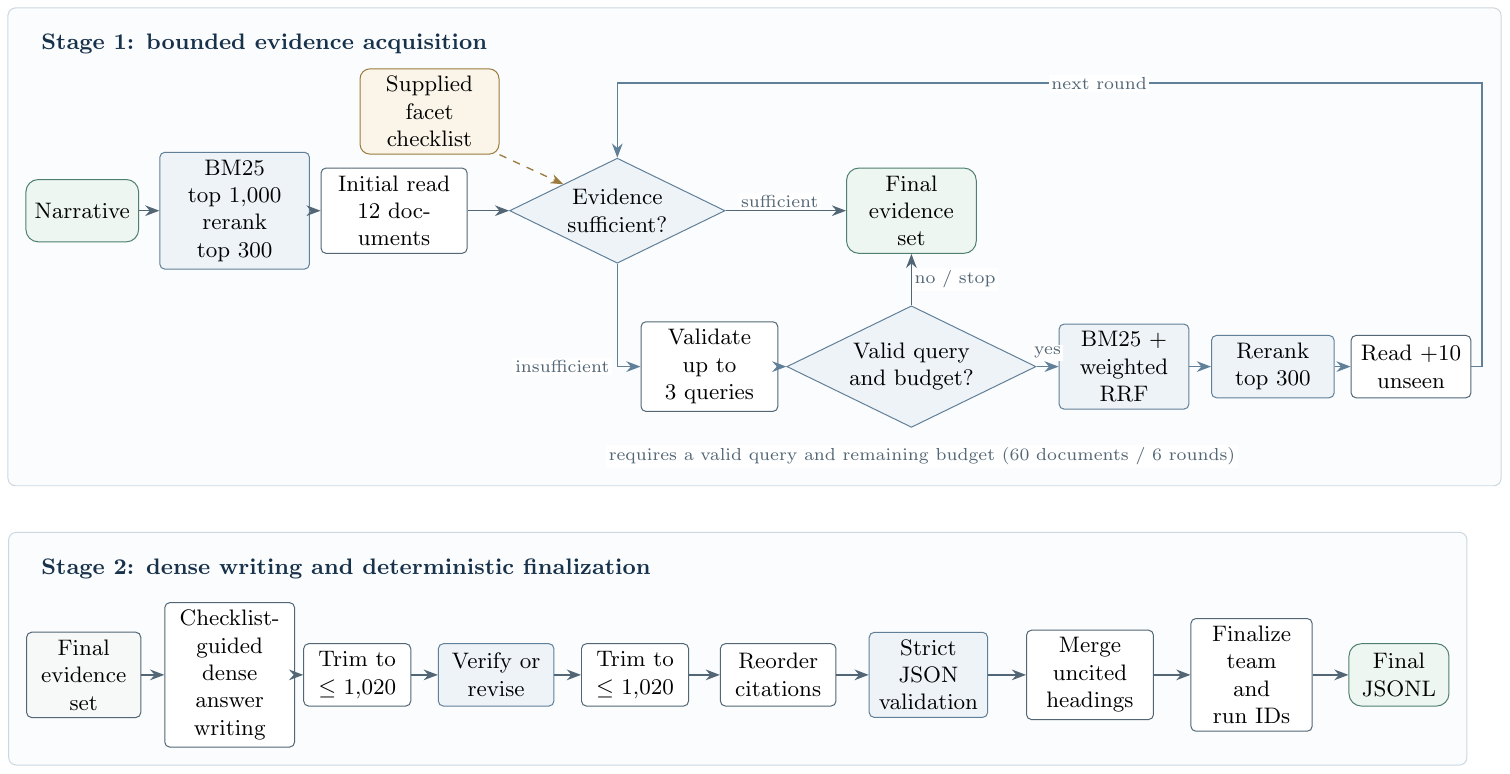
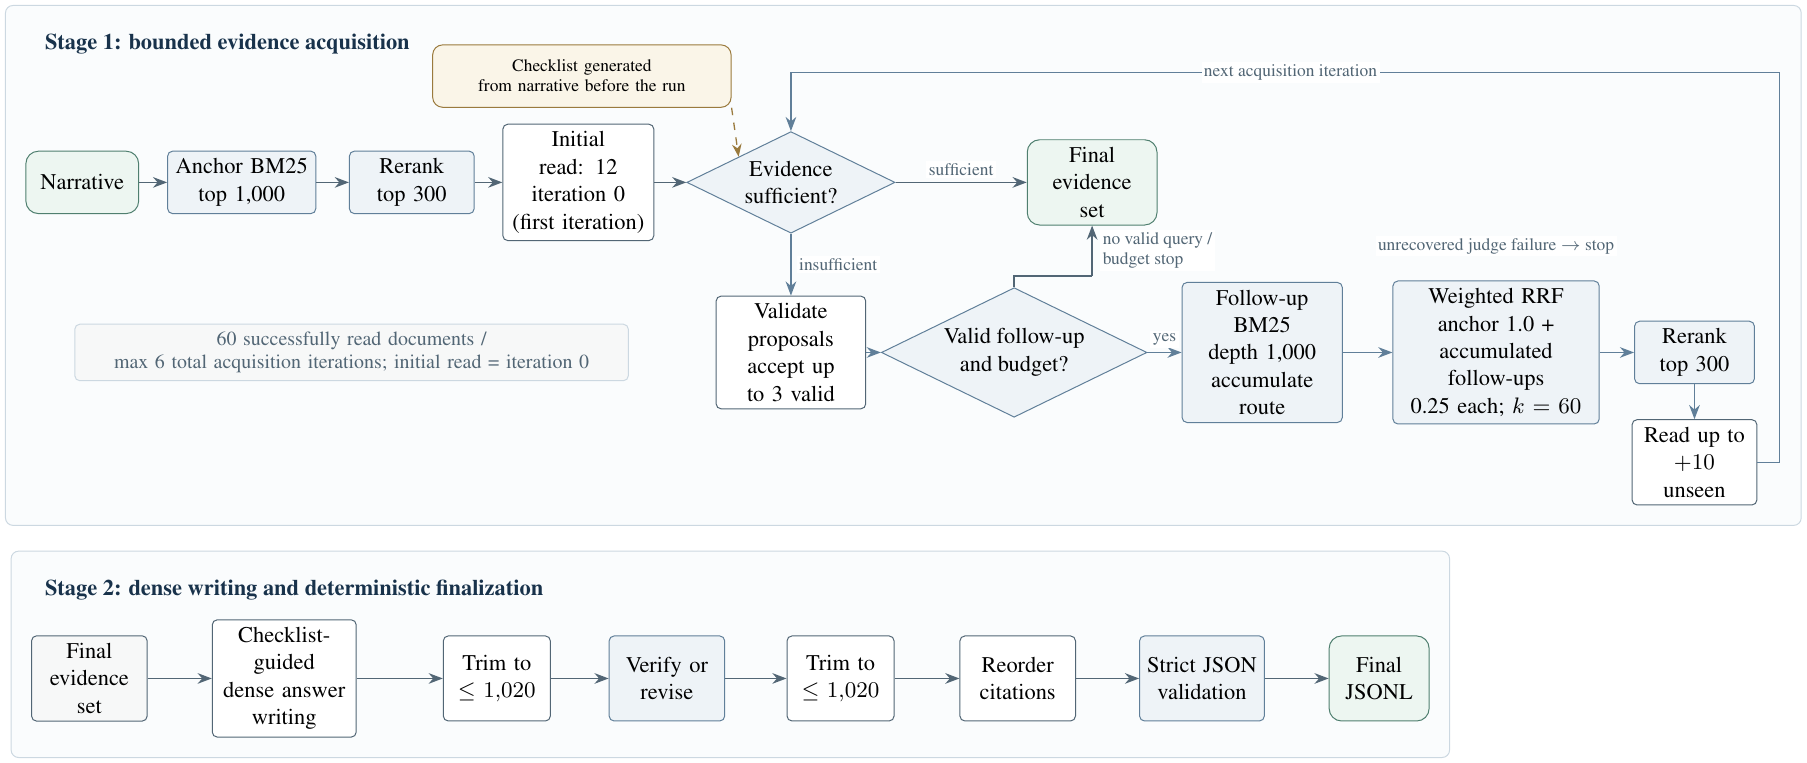
Polish README and refresh pipeline diagrams

diff --git a/README.md b/README.md
@@ -2,37 +2,38 @@
 
 [![CI](https://github.com/AnnieHsieh-12/TREC_RAG_2026/actions/workflows/ci.yml/badge.svg)](https://github.com/AnnieHsieh-12/TREC_RAG_2026/actions/workflows/ci.yml)
 
-This repository presents CFDA's final system for the TREC RAG 2026 track. It
-combines multi-route retrieval, neural reranking, adaptive evidence
-acquisition, and citation-grounded answer generation.
+This repository contains CFDA's Retrieval and RAG system for the TREC RAG 2026
+track. The system combines multi-route retrieval, neural reranking, bounded
+evidence acquisition, and citation-grounded answer generation.
 
 - **Team:** CFDA
 - **Maintainer:** [AnnieHsieh-12](https://github.com/AnnieHsieh-12)
-- **Status:** Public implementation of the final competition pipeline;
-  official 2026 results are not claimed in this repository.
+- **Status:** Public implementation of the competition system. Official 2026
+  results are not reported here.
 
-The system is designed around a simple principle: retrieve broadly, spend
-additional search only where the evidence is incomplete, and validate every
-answer before serialization. The repository focuses on the final competition
-pipeline and excludes development experiments and generated artifacts.
+The system first builds broad candidate pools, then spends additional retrieval
+only when the available evidence is insufficient. Generated answers undergo
+evidence verification, citation ordering, and strict format validation. This
+repository contains the selected system configuration and excludes exploratory
+experiments, caches, and generated run artifacts.
 
 ## System overview
 
 The system contains two related pipelines:
 
-| Pipeline | Purpose | Output |
-| --- | --- | --- |
-| Retrieval | Produce a variable-depth document ranking for each topic | Six-column TREC run |
-| Bounded RAG | Acquire sufficient evidence and generate a grounded answer | TREC RAG JSONL |
+| Pipeline    | Purpose                                                    | Output              |
+| ----------- | ---------------------------------------------------------- | ------------------- |
+| Retrieval   | Produce a variable-depth document ranking for each topic   | Six-column TREC run |
+| Bounded RAG | Acquire sufficient evidence and generate a grounded answer | TREC RAG JSONL      |
 
 TypeScript coordinates retrieval and generation, while a local Python service
 handles neural reranking, passage selection, sentence-level evidence matching,
-and an authenticated Codex CLI bridge. The selected final policy uses NCHC
+and an authenticated Codex CLI bridge. The selected configuration uses NCHC
 `gpt-oss-120b` for checklist generation and the Retrieval sufficiency judge.
 Codex `gpt-5.6-sol` handles Retrieval query/writer roles and the bounded RAG
 controller, including its sufficiency decisions and answer writing.
 
-### Key design choices
+### Design summary
 
 - **Adaptive retrieval:** an evidence-sufficiency decision determines whether
   the system stops or searches again.
@@ -40,8 +41,8 @@ controller, including its sufficiency decisions and answer writing.
   and validated follow-up queries contribute through weighted RRF.
 - **Protected ranking head:** later facet expansion and deep reranking improve
   coverage without destabilizing the highest-ranked documents.
-- **Bounded agent loop:** the RAG pipeline has explicit limits on rounds and
-  documents read, making its behavior auditable and cost-controlled.
+- **Bounded evidence loop:** the RAG pipeline places explicit limits on
+  acquisition rounds and documents read.
 - **Grounded generation:** answer revision and citation ordering operate on
   retrieved evidence before strict output validation.
 
@@ -65,7 +66,7 @@ OpenAI, and it does not exercise GPU inference.
 
 ## Retrieval pipeline
 
-![CFDA final Retrieval pipeline](docs/figures/retrieval_pipeline.png)
+![CFDA Retrieval pipeline](docs/figures/retrieval_pipeline.png)
 
 For each narrative, the Retrieval pipeline:
 
@@ -88,21 +89,21 @@ For each narrative, the Retrieval pipeline:
 8. Computes each topic's output depth from the pre-deep scores (`tau=0.20`) and
    writes a six-column TREC run.
 
-The selected Retrieval policy is defined in
+The selected Retrieval configuration is defined in
 [`code/config/final_pipeline.ts`](code/config/final_pipeline.ts).
-Its sufficiency judge uses NCHC `gpt-oss-120b`; query generation and answer-side
-reflection use `gpt-5.6-sol` through the authenticated local Codex sidecar.
+Its sufficiency judge uses NCHC `gpt-oss-120b`; query-generation and writer
+roles use `gpt-5.6-sol` through the authenticated local Codex sidecar.
 
 ## Bounded RAG pipeline
 
-![CFDA final bounded RAG pipeline](docs/figures/rag_pipeline.png)
+![CFDA bounded RAG pipeline](docs/figures/rag_pipeline.png)
 
 For each narrative, the bounded RAG pipeline:
 
 1. Retrieves BM25 top 1,000 and reranks the top 300.
 2. Initially reads 12 documents.
-3. Uses the topic-derived facet checklist and currently read evidence to decide
-   whether the evidence is sufficient.
+3. Uses a checklist generated from the narrative, together with the evidence
+   read so far, to decide whether more retrieval is needed.
 4. When evidence is insufficient, validates up to three follow-up queries. If
    a valid query and budget remain, it performs BM25 retrieval, weighted RRF,
    top-300 reranking, and reads 10 previously unseen documents.
@@ -124,13 +125,13 @@ TREC_RAG_2026/
 ├── docs/figures/                   pipeline diagrams used in this README
 ├── .github/workflows/ci.yml        automated checks
 ├── code/
-│   ├── config/final_pipeline.ts    selected final Retrieval policy
+│   ├── config/final_pipeline.ts    selected Retrieval configuration
 │   ├── scripts/                    public run/build/validation entry points
 │   ├── src/llm/                    NCHC, Codex, and optional OpenAI client
 │   ├── src/evaluation/             local qrels discovery and metrics
 │   ├── src/trec-rag-2026/
-│   │   ├── retrieval-pipeline/     final Retrieval controller
-│   │   ├── rag-pipeline/           final bounded RAG controller
+│   │   ├── retrieval-pipeline/     Retrieval controller
+│   │   ├── rag-pipeline/           bounded RAG controller
 │   │   ├── retrieval/              retrieval and reranking components
 │   │   └── shared-rag/             shared prompts, contracts, and validation
 │   ├── tools/                      checklist, deep rerank, finalization, checks
@@ -147,8 +148,8 @@ TREC_RAG_2026/
 - Python 3.12
 - Access to the ClimbMix/Pyserini service
 - NCHC credentials for the base Retrieval model
-- An authenticated Codex CLI session for the final Retrieval query/writer
-  roles and bounded RAG
+- An authenticated Codex CLI session for Retrieval query/writer roles and the
+  bounded RAG pipeline
 - A CUDA-capable GPU is recommended for neural reranking
 
 Competition services, model weights, and inputs require separate access.
@@ -185,15 +186,15 @@ cp sidecar/.env.local.example sidecar/.env.local
 
 Configure:
 
-| File | Required values |
-| --- | --- |
-| `code/.env.local` | `NCHC_API_KEY`, `PYSERINI_API_TOKEN` |
+| File                 | Required values                      |
+| -------------------- | ------------------------------------ |
+| `code/.env.local`    | `NCHC_API_KEY`, `PYSERINI_API_TOKEN` |
 | `sidecar/.env.local` | `PYSERINI_API_TOKEN`, `NCHC_API_KEY` |
 
 `SIDECAR_URL` defaults to `http://127.0.0.1:8765`. The server port can be
 changed with `SIDECAR_PORT`; use matching values when changing it.
 
-### Codex authentication for final query and generation roles
+### Codex authentication for query and generation roles
 
 The selected Retrieval and RAG policies send query-planning and answer-writing
 calls to the local sidecar, which invokes Codex CLI. Authenticate Codex on the
@@ -248,22 +249,22 @@ pipeline writes `metrics.json`, `per_topic_metrics.json`, and
 `qrels_metadata.json`; the last file records each filename and SHA-256. Without
 qrels, the normal output is produced and these diagnostic files are omitted.
 
-### Topic-derived checklist
+### Narrative checklist
 
-The final RAG launcher first derives a facet checklist from each topic
-narrative with the configured NCHC model. It does not use qrels, judgments, or
-answer text. The generated checklist guides evidence sufficiency, follow-up
-queries, and dense answer structure. Each run stores it as
+Before evidence acquisition, the RAG launcher generates a checklist from each
+narrative using the configured NCHC model. Checklist generation does not use
+qrels, judgments, or answer text. The checklist guides the sufficiency check,
+follow-up queries, and dense-answer structure. Each run stores it as
 `generated-checklist.jsonl` under its output directory.
 
-The generator emits only topic-derived aspect titles and vital/okay priority.
-It does not predict facts before retrieval; factual claims are obtained from
-ClimbMix evidence during the agent loop.
+The generator emits only aspect titles and vital/okay priorities. It does not
+predict facts before retrieval; factual claims must come from ClimbMix evidence
+collected during the run.
 
 One generated JSON object per topic:
 
 ```json
-{"qid":"topic_id","items":["first aspect","second aspect"]}
+{ "qid": "topic_id", "items": ["first aspect", "second aspect"] }
 ```
 
 See [`examples/checklist.example.jsonl`](examples/checklist.example.jsonl).
@@ -300,25 +301,25 @@ are:
 - select relevant passages from full documents;
 - retrieve sentence-level evidence for verification and citation ordering.
 
-The `/llm` Codex bridge is selected by the final RAG launcher. Retrieval and
+The RAG launcher uses the `/llm` Codex bridge. Retrieval and
 passage endpoints remain local, deterministic sidecar services.
 
-## Run the final Retrieval pipeline
+## Run the Retrieval pipeline
 
-### 1. Generate the final candidate pool
+### 1. Generate the candidate pool
 
 ```bash
 cd code
 npm run run:retrieval -- \
-  --run-id cfda-retrieval \
-  --team-id cfda \
-  --output-dir out/cfda-retrieval \
+  --run-id example-retrieval \
+  --team-id example-team \
+  --output-dir out/example-retrieval \
   --topics /path/to/topics.tsv
 ```
 
-Keep the local sidecar running during this stage. The final policy uses it for
-Codex-backed query generation and answer-side reflection; no direct OpenAI API
-key is required.
+Keep the local sidecar running during this stage. The selected configuration
+uses it for Codex-backed query-generation and writer roles; no direct OpenAI
+API key is required.
 
 Add `--qrels-dir /path/to/development-qrels` only when diagnostic metrics are
 required.
@@ -330,19 +331,19 @@ run must not proceed to submission building.
 The main candidate pool is written to:
 
 ```text
-code/out/cfda-retrieval/candidate_pool_top5000.trec
+code/out/example-retrieval/candidate_pool_top5000.trec
 ```
 
 ### 2. Run deep-tail reranking
 
 ```bash
 source ../.venv/bin/activate
-python tools/deep_ce_rerank.py out/cfda-retrieval \
+python tools/deep_ce_rerank.py out/example-retrieval \
   --head 100 \
   --depth 3000 \
   --variant 'RRF 1:1' \
   --device auto \
-  --out out/cfda-retrieval/deepce
+  --out out/example-retrieval/deepce
 ```
 
 The deep-tail stage reads the shared document cache and fetches any uncached
@@ -355,19 +356,21 @@ configurable with `--fetch-workers`, `--fetch-pace`, and
 ### 3. Build the two Retrieval outputs
 
 ```bash
-RUN_DIR="$PWD/out/cfda-retrieval" \
+RUN_DIR="$PWD/out/example-retrieval" \
 TOPICS=/path/to/topics.tsv \
+UNC_TAG=example-retrieval-unc \
+DEEP_TAG=example-retrieval-deep \
 bash scripts/build_retrieval_submissions.sh
 ```
 
 Default outputs:
 
 ```text
-code/out/retrieval-submissions/cfda-final-unc/r_output_trec_rag_2026.tsv
-code/out/retrieval-submissions/cfda-final-deep/r_output_trec_rag_2026.tsv
+code/out/retrieval-submissions/example-retrieval-unc/r_output_trec_rag_2026.tsv
+code/out/retrieval-submissions/example-retrieval-deep/r_output_trec_rag_2026.tsv
 ```
 
-## Run the final bounded RAG pipeline
+## Run the bounded RAG pipeline
 
 Keep the sidecar running, then use another terminal:
 
@@ -375,8 +378,8 @@ Keep the sidecar running, then use another terminal:
 cd code
 TOPICS=/path/to/topics.tsv \
 SIDECAR_URLS=http://127.0.0.1:8765 \
-RUN_ID=cfda-w5c \
-TEAM_ID=cfda \
+RUN_ID=example-rag \
+TEAM_ID=example-team \
 npm run run:rag
 ```
 
@@ -398,23 +401,23 @@ extra topic makes the command fail.
 Default final output:
 
 ```text
-code/out/submissions/cfda-w5c/rag_output_trec_rag_2026.jsonl
+code/out/submissions/example-rag/rag_output_trec_rag_2026.jsonl
 ```
 
 Optional environment variables:
 
-| Variable | Purpose |
-| --- | --- |
-| `OUT` | Raw RAG run directory |
-| `SUBMISSION_OUT` | Finalized submission directory; defaults to `out/submissions/$RUN_ID` |
-| `SHARDS` | Number of parallel topic shards; default `4` |
-| `SIDECAR_URLS` | Comma-separated sidecar URLs |
-| `CHECKLIST_MODEL` | NCHC model used to derive topic checklists; default `gpt-oss-120b` |
-| `CHECKLIST_REPLAY` | Optional frozen checklist used only for an explicit historical replay |
-| `PYSERINI_TOKENS` | Comma-separated tokens assigned across shards |
-| `QRELS_DIR` | Optional directory of development qrels |
-| `RUN_ID`, `TEAM_ID` | Run and team identifiers written to generated records |
-| `PYTHON` | Python executable; default `python3` |
+| Variable                       | Purpose                                                                                         |
+| ------------------------------ | ----------------------------------------------------------------------------------------------- |
+| `OUT`                          | Raw RAG run directory                                                                           |
+| `SUBMISSION_OUT`               | Finalized submission directory; defaults to `out/submissions/$RUN_ID`                           |
+| `SHARDS`                       | Number of parallel topic shards; default `4`                                                    |
+| `SIDECAR_URLS`                 | Comma-separated sidecar URLs                                                                    |
+| `CHECKLIST_MODEL`              | NCHC model used to derive topic checklists; default `gpt-oss-120b`                              |
+| `CHECKLIST_REPLAY`             | Optional frozen checklist used only for an explicit historical replay                           |
+| `PYSERINI_TOKENS`              | Comma-separated tokens assigned across shards                                                   |
+| `QRELS_DIR`                    | Optional directory of development qrels                                                         |
+| `RUN_ID`, `TEAM_ID`            | Run and team identifiers written to generated records                                           |
+| `PYTHON`                       | Python executable; default `python3`                                                            |
 | `REPLAY_OFFICIAL_W5C_REPAIR=1` | Replay the hash-gated archival repair only when reconstructing the frozen official W5c artifact |
 
 ## Validation and tests
@@ -453,7 +456,7 @@ code/scripts/check_no_secret_leak.sh /path/to/output-directory
 
 ## Reproducibility
 
-This repository reproduces the final pipeline structure, configuration,
+This repository reproduces the selected pipeline structure, configuration,
 serialization, and validation procedure. It does not guarantee byte-identical
 reproduction of the submitted runs because the frozen checklist, generated
 outputs, external service state, and model responses are not redistributed.
@@ -465,8 +468,7 @@ outputs, external service state, and model responses are not redistributed.
 - Competition services and inputs require separate authorization.
 - Generated outputs, caches, traces, and intermediate pools remain untracked.
 
-Official submission files and generated outputs are not redistributed. This
-repository provides the final pipeline implementation and validation tools.
+Official submission files and generated outputs are not redistributed.
 
 ## Evaluation status
 
